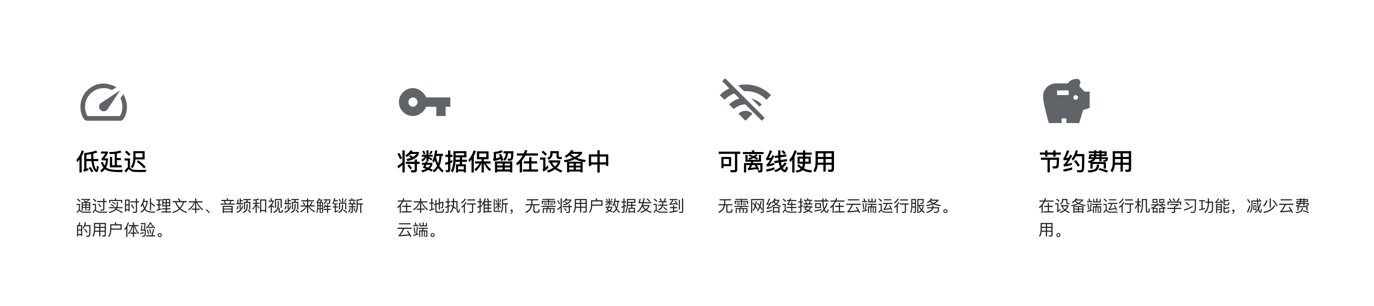
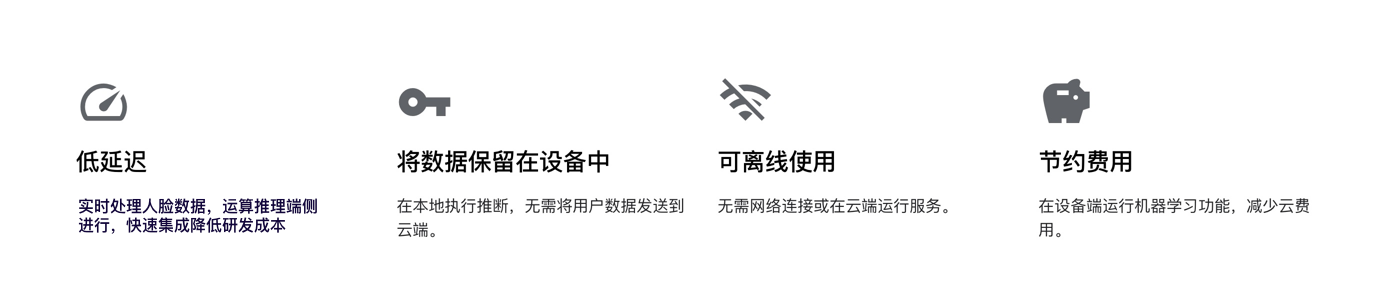
录入人脸照片返回高清人脸图，同时返回原图（beta）

Changed region(s): [[0.0306, 0.6471, 0.2751, 0.7941]]

diff --git a/app/src/main/java/com/ai/face/NaviActivity.kt b/app/src/main/java/com/ai/face/NaviActivity.kt
@@ -50,14 +50,12 @@ class NaviActivity : AppCompatActivity(), PermissionCallbacks {
 
         //一个在线人脸图片对比工具 https://facecomparison.toolpie.com/
         //测试两张人脸是否相同  model.jpg
+
         val value= VerifyUtils.evaluateFaceSimi(baseContext,
             VerifyUtils.getBitmapFromAssert(baseContext,"model_1.png"),
             VerifyUtils.getBitmapFromAssert(baseContext,"model.jpg"))
 
         Log.d("VerifyUtils", "测试两张人脸是否相同，value:  $value")
-
-
-
 
 
         viewBinding.faceVerifyCard.setOnClickListener {

diff --git a/app/src/main/java/com/ai/face/search/FaceImageEditActivity.kt b/app/src/main/java/com/ai/face/search/FaceImageEditActivity.kt
@@ -163,7 +163,8 @@ class FaceImageEditActivity : AppCompatActivity() {
      */
     private fun showConfirmDialog(bitmap: Bitmap) {
 
-        var bitmapCrop = BaseImageDispose(baseContext).cropFaceBitmap(bitmap)
+        //裁剪掉周边，保存人脸的部分
+        val bitmapCrop = BaseImageDispose(baseContext).cropFaceBitmap(bitmap)
 
         if (bitmapCrop == null) {
             Toast.makeText(this, "没有检测到人脸", Toast.LENGTH_LONG).show()

diff --git a/app/src/main/java/com/ai/face/verify/AddBaseImageActivity.java b/app/src/main/java/com/ai/face/verify/AddBaseImageActivity.java
@@ -5,6 +5,8 @@ import android.content.Context;
 import android.content.SharedPreferences;
 import android.graphics.Bitmap;
 import android.os.Bundle;
+import android.os.CountDownTimer;
+import android.util.Log;
 import android.view.View;
 import android.widget.Button;
 import android.widget.EditText;
@@ -26,6 +28,13 @@ import com.ai.face.base.view.CameraXFragment;
  * 修改底图,实际业务可以调用系统相机拍照后再调用API 处理
  * 人脸照片返回高清人脸图，同时返回原图（VIP）
  *
+ *
+ * OpenCV
+ * 1.人脸角度提示
+ * 2.人脸完整度提示
+ * 3.闭眼提示
+ * 4.特征点遮挡提示（待开发）
+ * 5.高清人脸图和原图输出（Beta 试点中）
  *
  */
 public class AddBaseImageActivity extends AppCompatActivity {
@@ -76,30 +85,34 @@ public class AddBaseImageActivity extends AppCompatActivity {
                     //准备增加人脸质量检测（VIP） 不合格的给提示
                     switch (actionCode) {
                         case NO_FACE:
-                            tipsTextView.setText("未检测到人脸");
+                            showTempTips("未检测到人脸");
+//                            tipsTextView.setText("未检测到人脸");
                             break;
                         case MANY_FACE:
-                            tipsTextView.setText("多张人脸出现");
+                            showTempTips("多张人脸出现");
+//                            tipsTextView.setText("多张人脸出现");
                             break;
                         case SMALL_FACE:
-                            tipsTextView.setText("靠近一点");
+                            showTempTips("请靠近一点");
+//                            tipsTextView.setText("靠近一点");
                             break;
                         case AlIGN_FAILED:
-                            tipsTextView.setText("图像校准失败");
+                            showTempTips("图像校准失败");
+//                            tipsTextView.setText("图像校准失败");
                             break;
 
                         case REAL_HUMAN:
-                            tipsTextView.setText("活体检验通过");
+                            showTempTips("活体检验通过");
+//                            tipsTextView.setText("活体检验通过");
                             break;
 
                         case NOT_REAL_HUMAN: //仅仅开启了活体检测的有
-                            tipsTextView.setText("非真正人脸");
+//                            tipsTextView.setText("非真正人脸");
+                            showTempTips("非真正人脸");
 
                             //业务逻辑自己处理
-                            Toast.makeText(getBaseContext(),"请真人录制人脸",Toast.LENGTH_LONG).show();
                             AddBaseImageActivity.this.finish();
                             break;
-
                     }
                 });
             }
@@ -128,6 +141,41 @@ public class AddBaseImageActivity extends AppCompatActivity {
                 .replace(R.id.fragment_camerax, cameraXFragment).commit();
 
     }
+
+
+    /**
+     * 准备加语音提示
+     * @param tips 提示语
+     */
+    private void showTempTips(String tips) {
+        countDownTimer.cancel();
+        tipsTextView.setText(tips);
+        tipsTextView.setVisibility(View.VISIBLE);
+        countDownTimer.start();
+    }
+
+
+    /**
+     * 封装成一个Lib ，倒计时显示库
+     */
+    CountDownTimer countDownTimer = new CountDownTimer(1000L * 2, 1000L) {
+        @Override
+        public void onTick(long millisUntilFinished) {
+            // your logic for tick
+            Log.e("countDownTimer", "onTick()" + millisUntilFinished);
+        }
+
+        @Override
+        public void onFinish() {
+            // your logic for finish
+            Log.e("countDownTimer", "onFinish()");
+            runOnUiThread(() -> {
+                tipsTextView.setText("");
+                tipsTextView.setVisibility(View.INVISIBLE);
+            });
+        }
+    };
+
 
     
     /**

diff --git a/questions.md b/questions.md
@@ -37,6 +37,7 @@
    1:N /M:N人脸搜索识别功能都需要申请license授权，同类型终端费用8K，永久有效，不限制数量。
    所有授权都是绑定App包名和签名SHA1进行，需要新的功能和定制特性开发根据评估情况再协定。 
    「同一主体授权有多个变种App使用不同包名可以提供资料证明后协商优惠处理」
+   收费项目需要试用请添加微信或邮件申请，并告知App 名称，包名 和 简单使用场景介绍
 
 ### 9.摄像头方向调整相关
    目前SDK 的摄像头预览，分析画面都是在内部处理，画面方向和手机，Pad 的姿态（传感器反向）决定，画面能随横竖屏自动切换

diff --git a/Introduce_11_1N_MN.md b/Introduce_11_1N_MN.md
@@ -10,7 +10,6 @@
 人脸识别做的是1:N的比对，即系统采集了“我”的一张照片之后，从海量的人像数据库中找到与当前使用者人脸数据相符合的图像，并进行匹配，找出来“我是谁”。
 
 
-
 1:N人脸识别模式，同时具有动态比对与非配合两种特点。动态对比是指通过对动态视频流的截取来获得人脸数据并进一步比对的过程；而非配合性是指识别的过程表现出非强制性与高效性的特点，识别对象无需到特定的位置便能完成人脸识别的工作。
 
 ## M:N 模式
